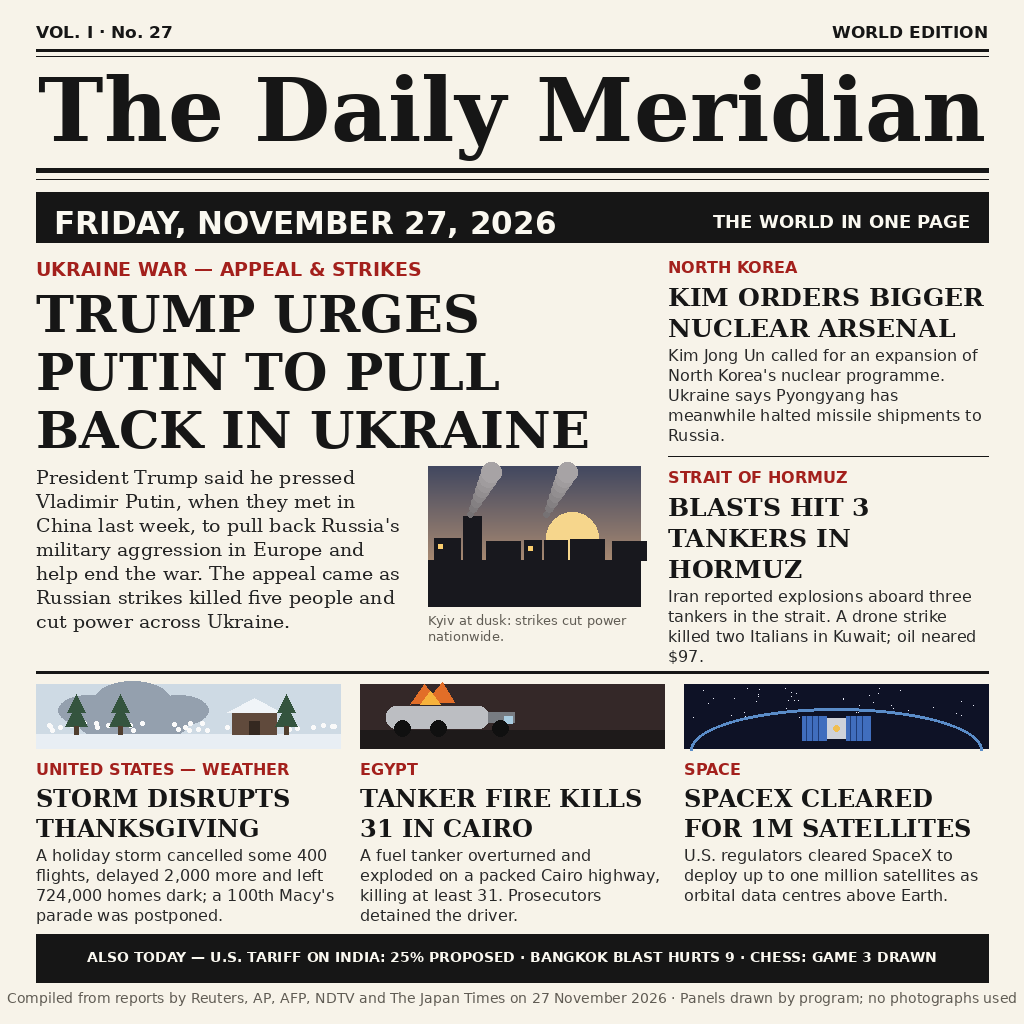
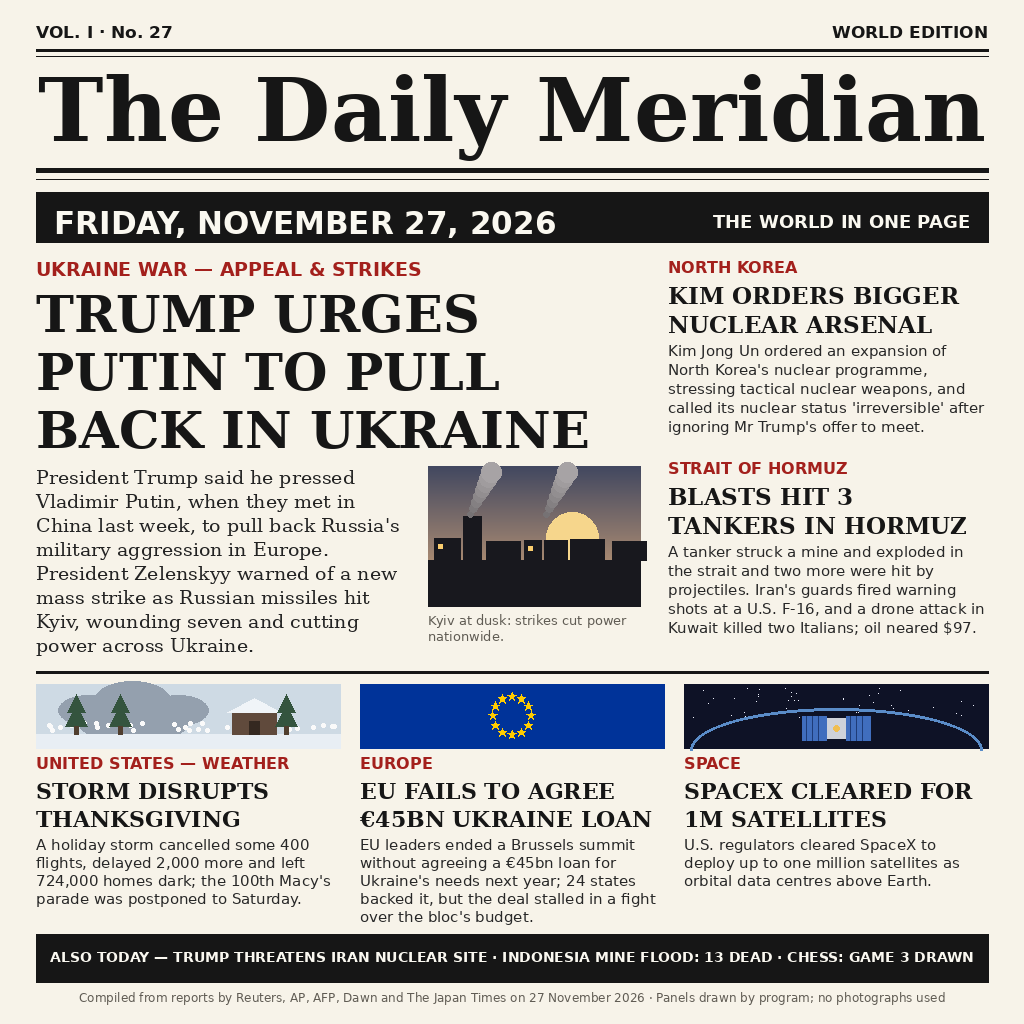
Final: 27 Nov 2026 front page — EU loan, Hormuz, Kim, storm, SpaceX

diff --git a/render.py b/render.py
@@ -3,8 +3,8 @@
 A one-page broadsheet that sums up the day's world news, drawn entirely with
 Pillow: masthead, date bar, a lead story on Ukraine, side stories on North
 Korea and the Strait of Hormuz, a bottom row on the U.S. Thanksgiving storm,
-the Cairo tanker fire and SpaceX's satellite clearance, plus a ticker of
-further headlines.  Every story carries a small drawn panel so the page reads
+the EU's failed €45bn Ukraine loan and SpaceX's satellite clearance, plus a
+ticker of further headlines.  Every story carries a small drawn panel so the page reads
 as pictures plus words, the way a picture editor would lay it out.
 
 The drawing is deterministic: fixed geometry, fixed fonts, no randomness
@@ -195,6 +195,25 @@ def panel_fire(d, box):
               fill=(246, 178, 60))
 
 
+def panel_eu(d, box):
+    """EU flag motif: a ring of gold stars on a blue field."""
+    import math
+    x0, y0, x1, y1 = box
+    d.rectangle(box, fill=(0, 51, 153))
+    cx, cy = (x0 + x1) / 2, (y0 + y1) / 2
+    ring = min(x1 - x0, y1 - y0) * 0.30
+    for k in range(12):
+        ang = -math.pi / 2 + k * 2 * math.pi / 12
+        sx, sy = cx + ring * math.cos(ang), cy + ring * math.sin(ang)
+        r = 4.5
+        pts = []
+        for j in range(10):
+            a = -math.pi / 2 + j * math.pi / 5
+            rr = r if j % 2 == 0 else r * 0.42
+            pts.append((sx + rr * math.cos(a), sy + rr * math.sin(a)))
+        d.polygon(pts, fill=(255, 204, 0))
+
+
 def panel_satellite(d, box):
     """A data-centre satellite over the curve of the Earth."""
     x0, y0, x1, y1 = box
@@ -222,6 +241,7 @@ PANELS = {
     "tanker": panel_tanker,
     "storm": panel_storm,
     "fire": panel_fire,
+    "eu": panel_eu,
     "satellite": panel_satellite,
 }
 
@@ -277,8 +297,9 @@ def build():
                    font(SERIF_B, 51), INK, lw, 58)
     body = ("President Trump said he pressed Vladimir Putin, when they met "
             "in China last week, to pull back Russia's military aggression "
-            "in Europe and help end the war. The appeal came as Russian "
-            "strikes killed five people and cut power across Ukraine.")
+            "in Europe. President Zelenskyy warned of a new mass strike as "
+            "Russian missiles hit Kyiv, wounding seven and cutting power "
+            "across Ukraine.")
     text_block(d, lx, y + 8, body, font(SERIF, 19), (35, 35, 35), 372, 24)
     panel_lead(d, (lx + 392, y + 8, lx + lw, y + 148))
     cap = "Kyiv at dusk: strikes cut power nationwide."
@@ -288,51 +309,52 @@ def build():
     rx, rw = 668, RIGHT - 668
     ry = story(d, rx, 258, rw, "NORTH KOREA",
                "KIM ORDERS BIGGER NUCLEAR ARSENAL",
-               "Kim Jong Un called for an expansion of North Korea's "
-               "nuclear programme. Ukraine says Pyongyang has meanwhile "
-               "halted missile shipments to Russia.",
-               h_size=25, b_size=16, leading=20)
-    d.line([(rx, ry + 10), (RIGHT, ry + 10)], fill=RULE, width=1)
+               "Kim Jong Un ordered an expansion of North Korea's nuclear "
+               "programme, stressing tactical nuclear weapons, and called "
+               "its nuclear status 'irreversible' after ignoring Mr "
+               "Trump's offer to meet.",
+               h_size=23, b_size=15, leading=19)
     story(d, rx, ry + 22, rw, "STRAIT OF HORMUZ",
           "BLASTS HIT 3 TANKERS IN HORMUZ",
-          "Iran reported explosions aboard three tankers in the "
-          "strait. A drone strike killed two Italians in Kuwait; "
+          "A tanker struck a mine and exploded in the strait and two more "
+          "were hit by projectiles. Iran's guards fired warning shots at "
+          "a U.S. F-16, and a drone attack in Kuwait killed two Italians; "
           "oil neared $97.",
-          h_size=25, b_size=16, leading=20)
+          h_size=23, b_size=15, leading=19)
 
     # --- bottom rule + grid ---------------------------------------------
     d.line([(MARGIN, 672), (RIGHT, 672)], fill=RULE, width=3)
     cols = [(MARGIN, "storm", "UNITED STATES — WEATHER",
              "STORM DISRUPTS THANKSGIVING",
              "A holiday storm cancelled some 400 flights, delayed 2,000 "
-             "more and left 724,000 homes dark; a 100th Macy's parade "
-             "was postponed."),
-            (360, "fire", "EGYPT",
-             "TANKER FIRE KILLS 31 IN CAIRO",
-             "A fuel tanker overturned and exploded on a packed Cairo "
-             "highway, killing at least 31. Prosecutors detained the "
-             "driver."),
+             "more and left 724,000 homes dark; the 100th Macy's parade "
+             "was postponed to Saturday."),
+            (360, "eu", "EUROPE",
+             "EU FAILS TO AGREE €45BN UKRAINE LOAN",
+             "EU leaders ended a Brussels summit without agreeing a €45bn "
+             "loan for Ukraine's needs next year; 24 states backed it, "
+             "but the deal stalled in a fight over the bloc's budget."),
             (684, "satellite", "SPACE",
              "SPACEX CLEARED FOR 1M SATELLITES",
              "U.S. regulators cleared SpaceX to deploy up to one million "
              "satellites as orbital data centres above Earth.")]
     for cx, key, kick, head, body in cols:
         PANELS[key](d, (cx, 684, cx + 304, 748))
-        story(d, cx, 760, 304, kick, head, body, h_size=24, b_size=16,
-              leading=20)
+        story(d, cx, 754, 304, kick, head, body, h_size=22, b_size=15,
+              leading=18)
 
     # --- ticker ----------------------------------------------------------
     d.rectangle([MARGIN, 934, RIGHT, 982], fill=INK)
-    tick = ("ALSO TODAY — U.S. TARIFF ON INDIA: 25% PROPOSED · BANGKOK "
-            "BLAST HURTS 9 · CHESS: GAME 3 DRAWN")
+    tick = ("ALSO TODAY — TRUMP THREATENS IRAN NUCLEAR SITE · INDONESIA "
+            "MINE FLOOD: 13 DEAD · CHESS: GAME 3 DRAWN")
     tf = fit_font(d, tick, SANS_B, 16, RIGHT - MARGIN - 28)
     tw = d.textlength(tick, font=tf)
     d.text(((W - tw) / 2, 949), tick, font=tf, fill=(250, 248, 240))
 
-    foot = ("Compiled from reports by Reuters, AP, AFP, NDTV and The Japan "
+    foot = ("Compiled from reports by Reuters, AP, AFP, Dawn and The Japan "
             "Times on 27 November 2026 · Panels drawn by program; no "
             "photographs used")
-    ff = font(SANS, 14)
+    ff = fit_font(d, foot, SANS, 14, RIGHT - MARGIN)
     tw = d.textlength(foot, font=ff)
     d.text(((W - tw) / 2, 990), foot, font=ff, fill=GRAY)
     return img
